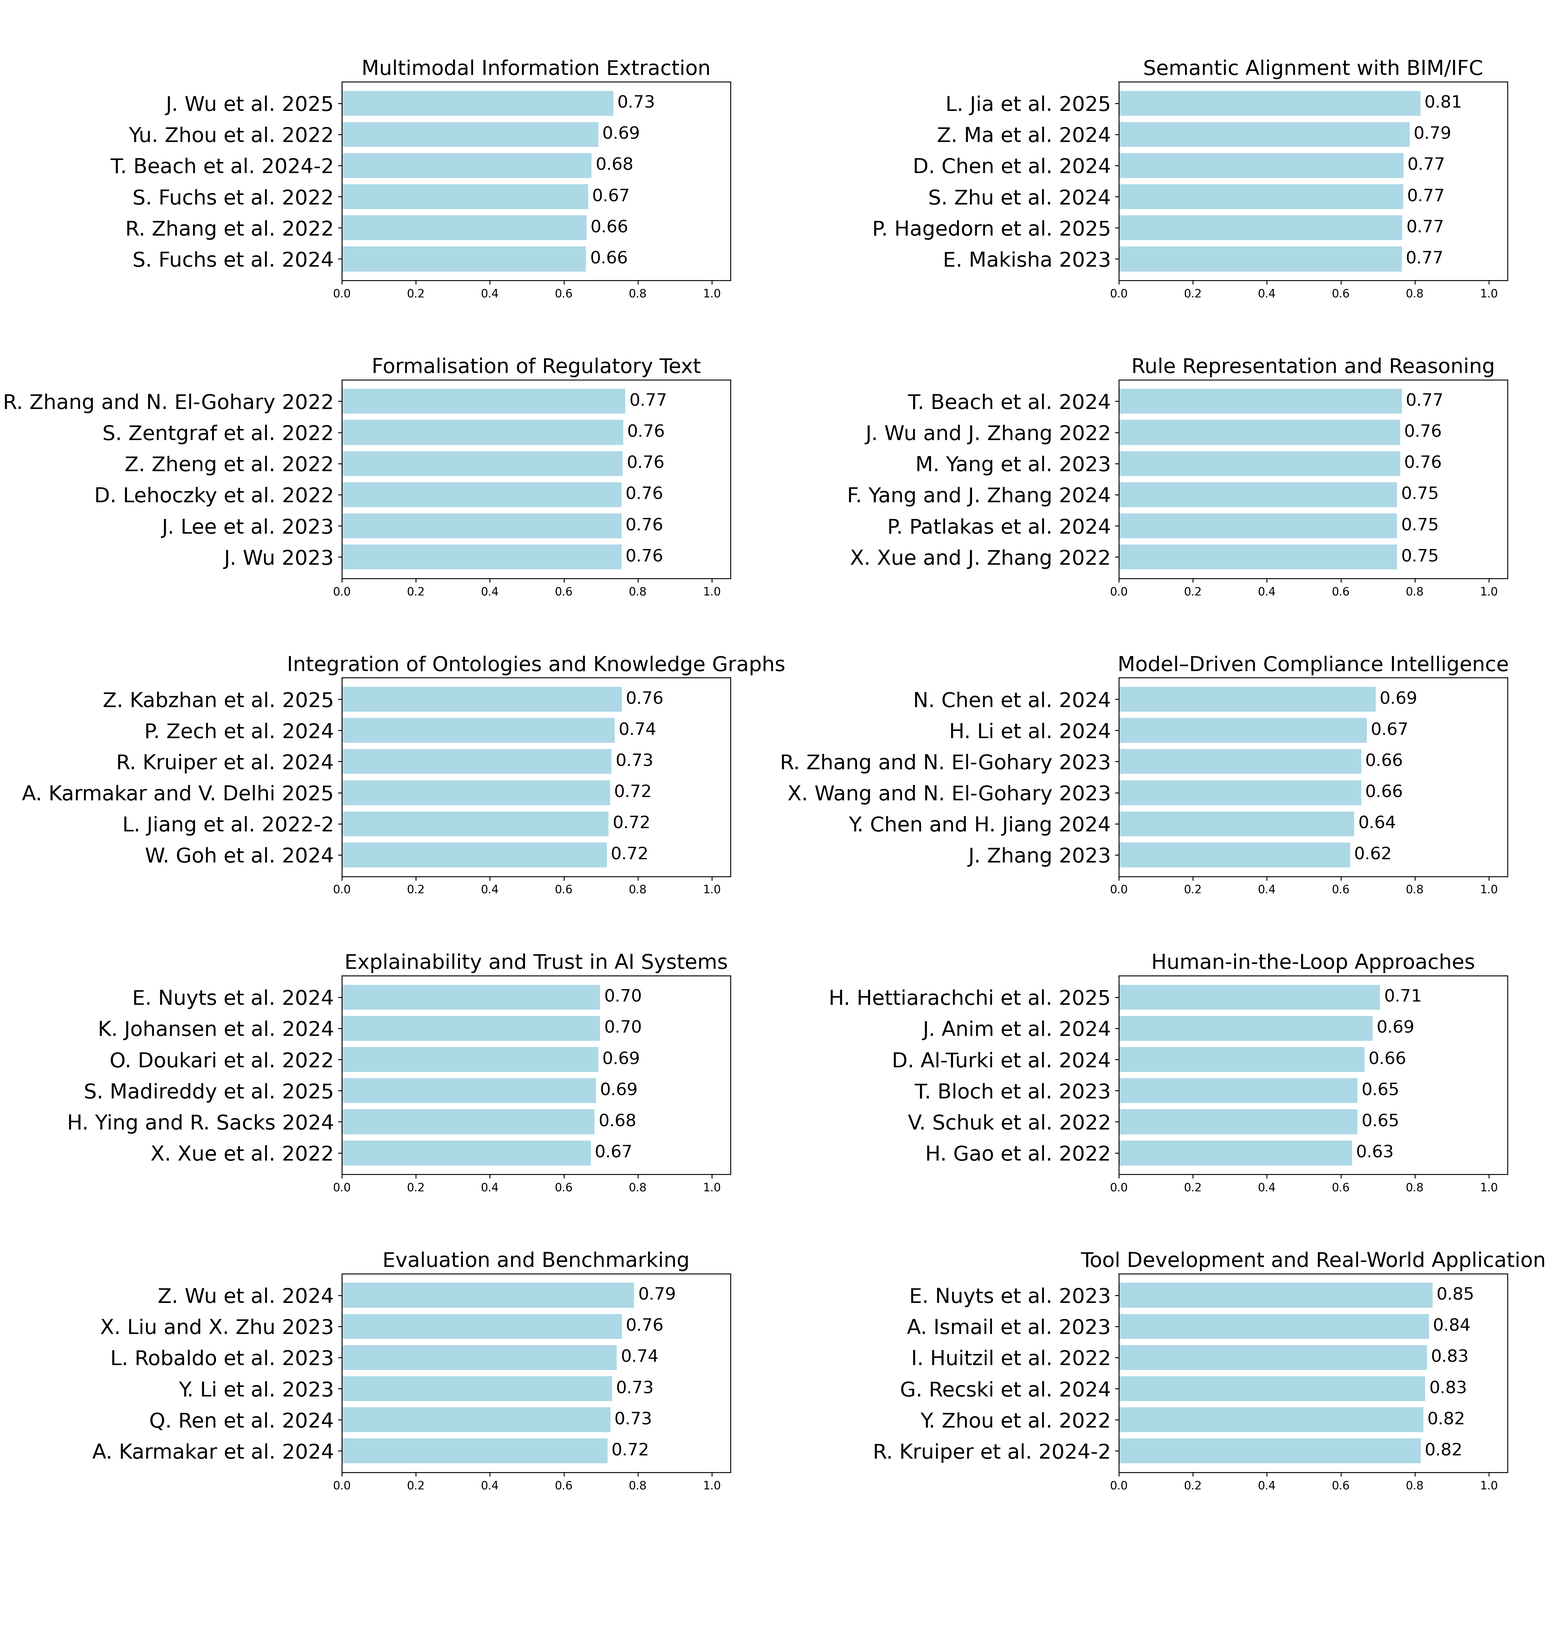
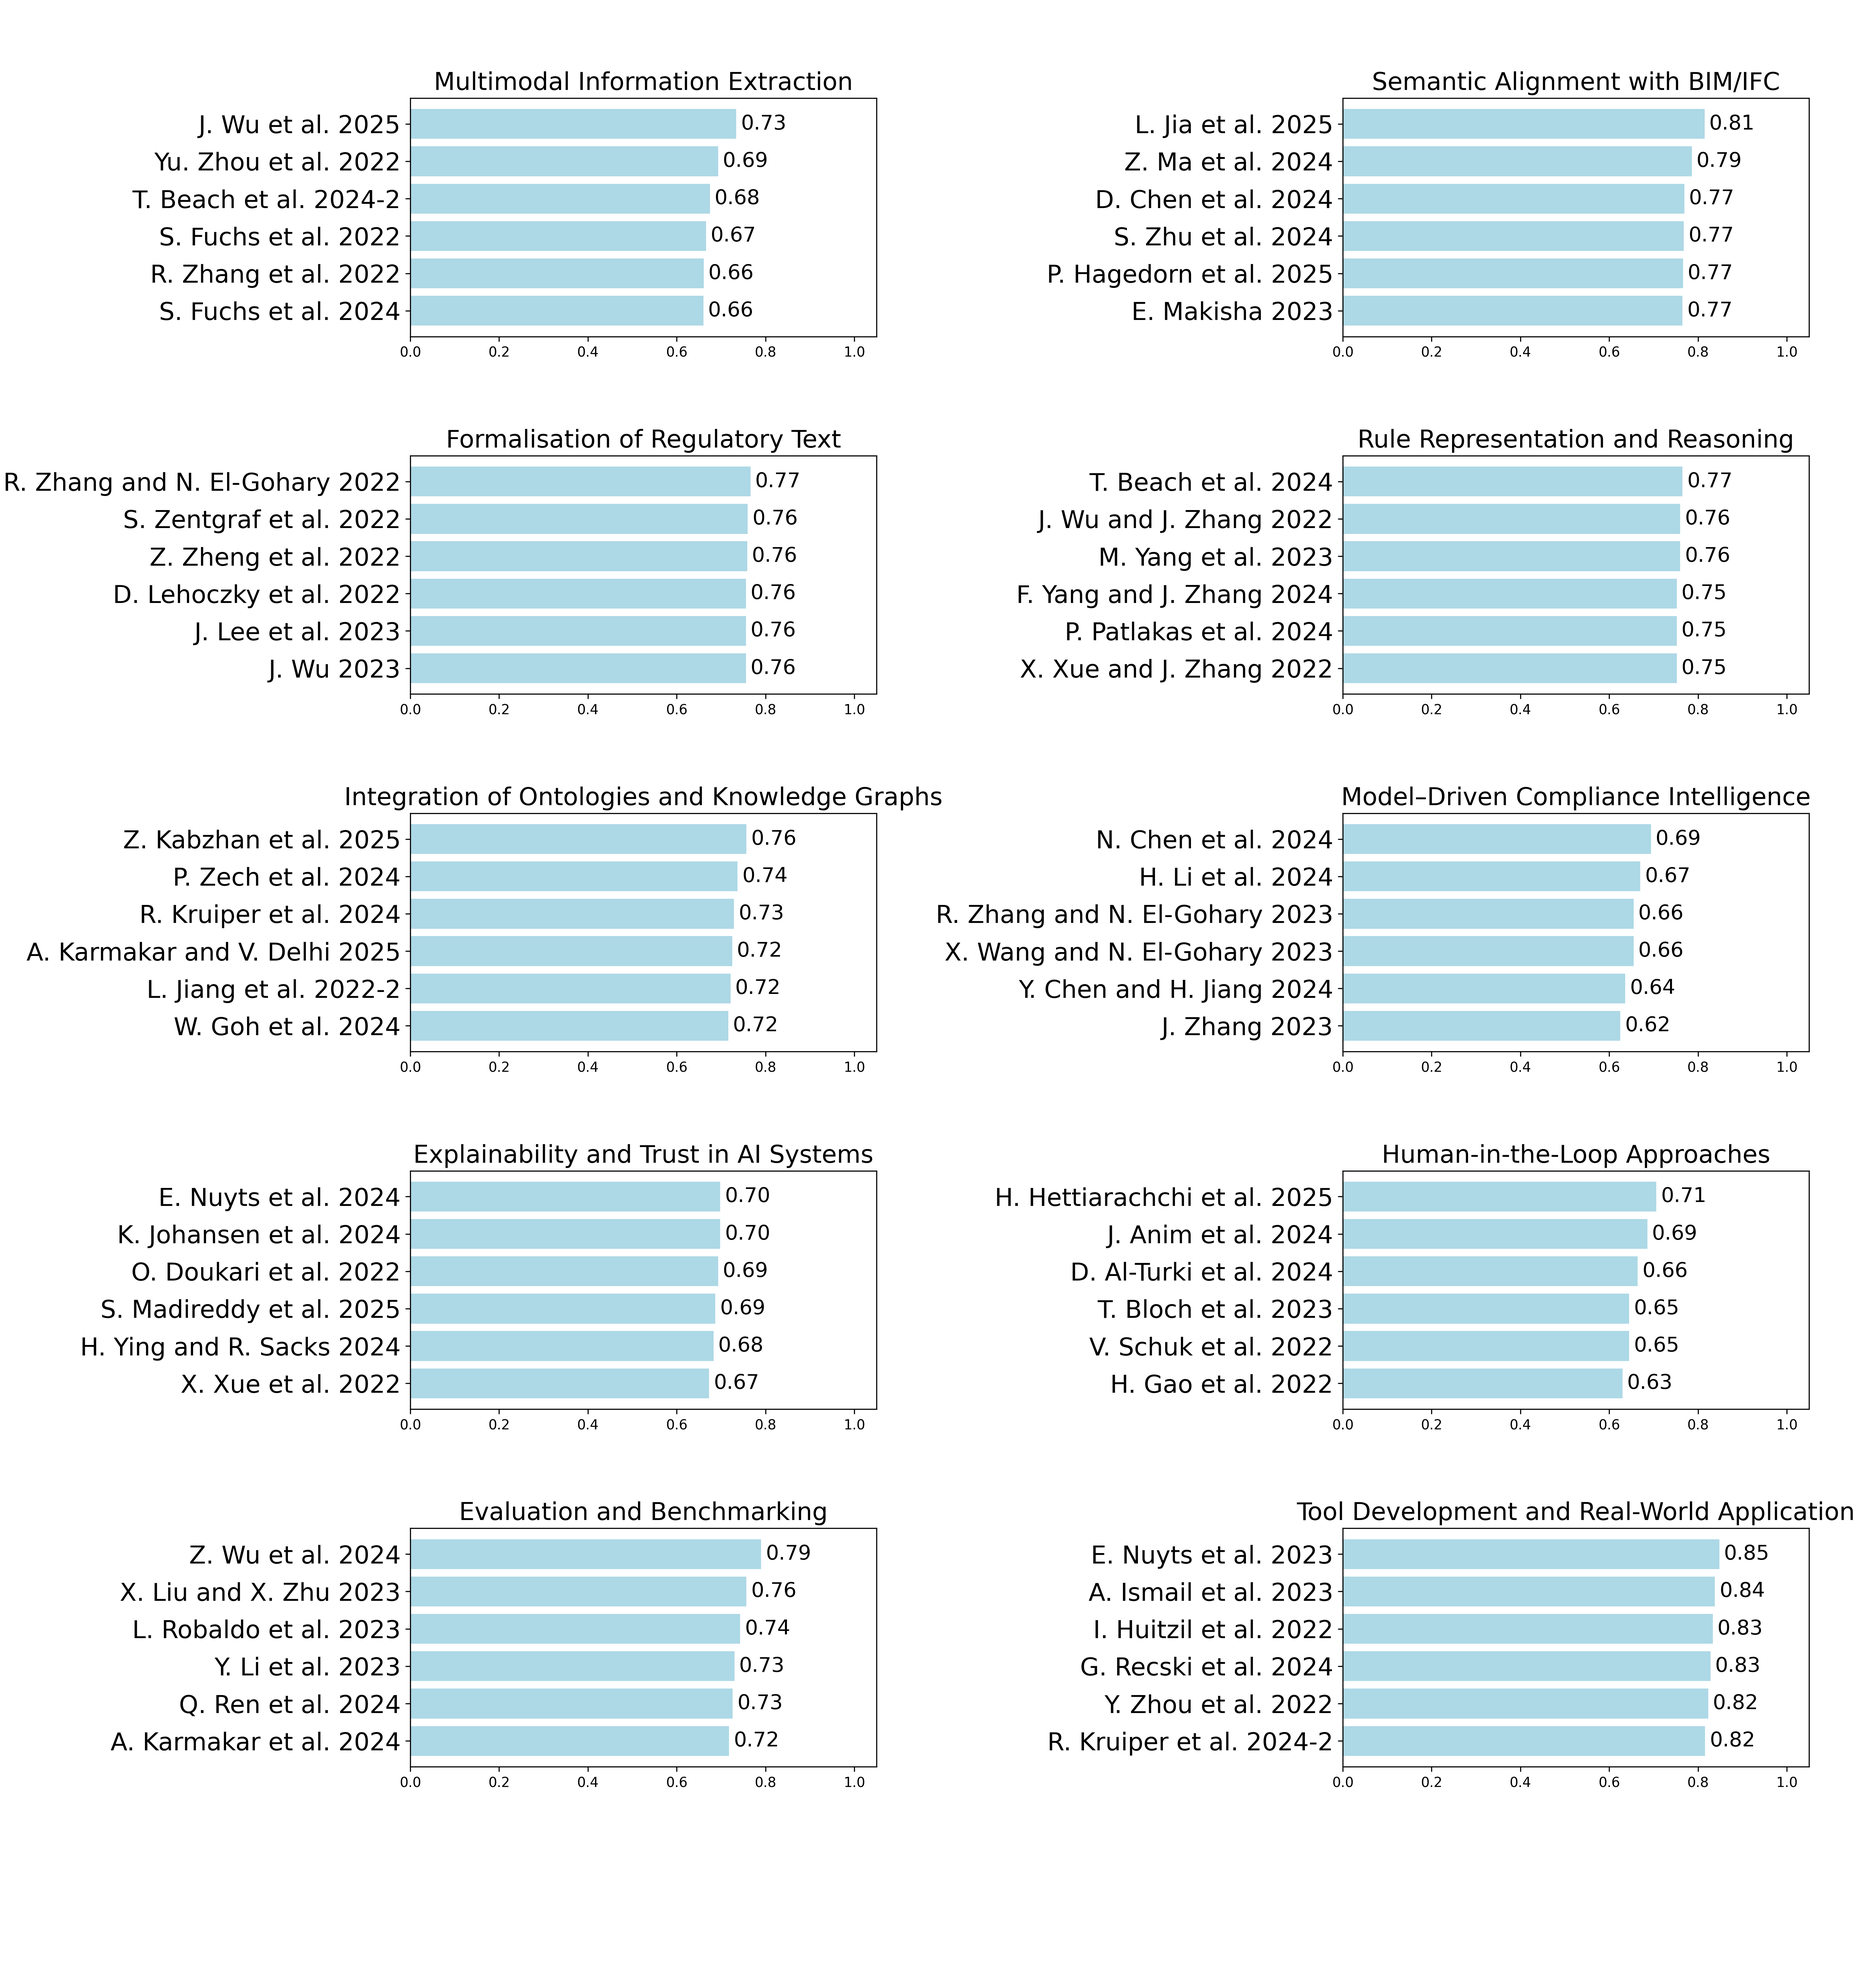
Enhancing Diagrams

Changed region(s): [[0.6543, 0.4992, 0.6855, 0.5304]]

diff --git a/generate_highest_ranking_unique.py b/generate_highest_ranking_unique.py
@@ -197,5 +197,5 @@ for theme in themes:
     
 plt.tight_layout()
 plt.subplots_adjust(wspace=1, hspace=0.5, left=0.22, right=0.97, top=0.95, bottom=0.1)
-plt.savefig("highest_ranking_papers_unique.png", dpi=250)
+plt.savefig("highest_ranking_papers_unique.png", dpi=300)
 plt.show()

diff --git a/generate_sankey_diagram.py b/generate_sankey_diagram.py
@@ -40,5 +40,5 @@ fig = go.Figure(data=[go.Sankey(
 fig.update_layout(title_text="Sankey Diagram: Papers to Themes", font_size=12,
     width=1000,   
     height=1200)
-fig.write_image("sankey_diagram.png", scale=5)
+fig.write_image("sankey_diagram.png", scale=4.17)
 fig.show()

diff --git a/generate_heatmap.py b/generate_heatmap.py
@@ -40,5 +40,5 @@ cbar.yaxis.label.set_size(12)     # colorbar label
 cbar.tick_params(labelsize=12)    # colorbar tick labels
 
 plt.tight_layout()
-plt.savefig("heatmap.png", dpi=200)
+plt.savefig("heatmap.png", dpi=300)
 plt.show()
